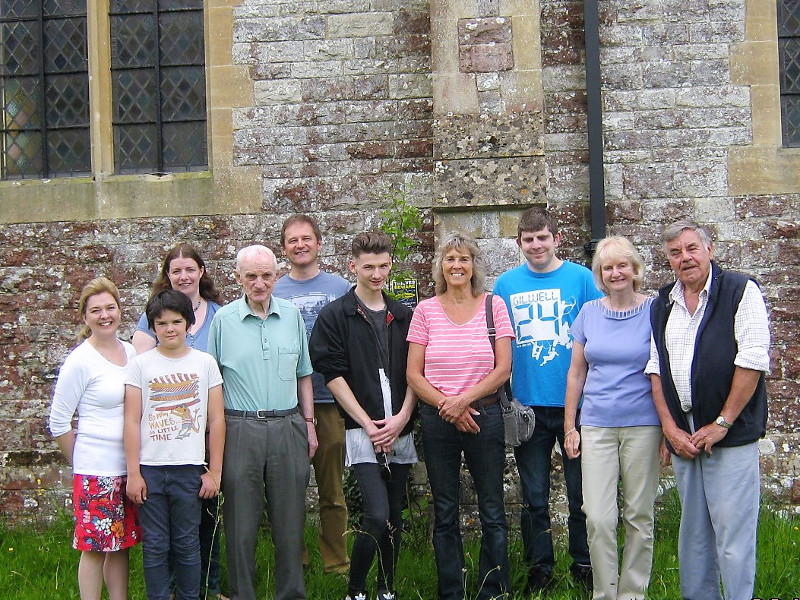
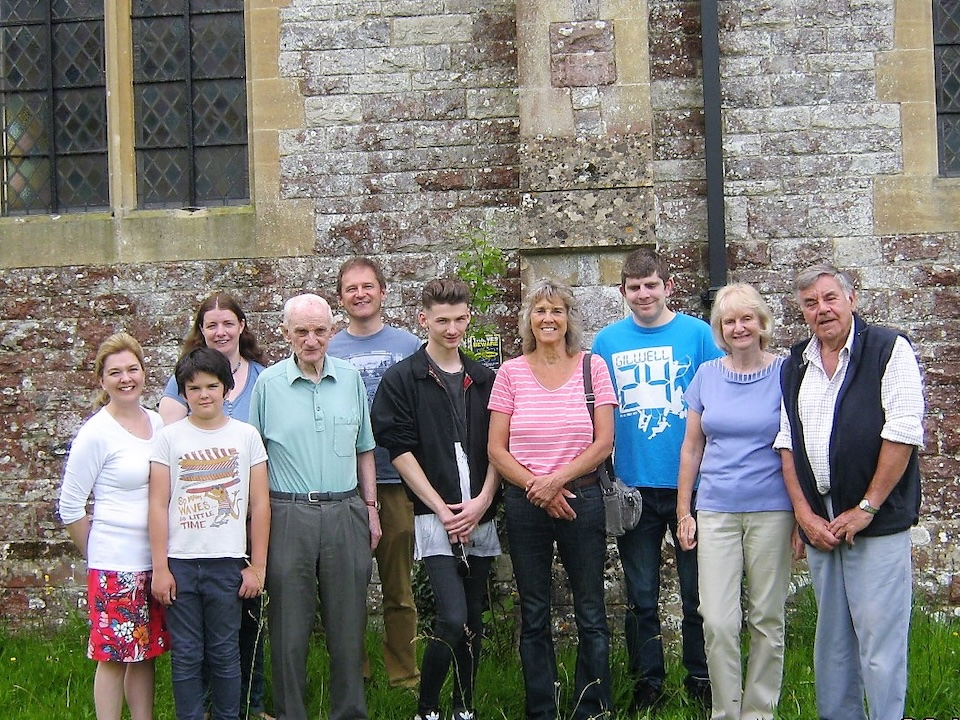
adjusted image sizes for carousel

diff --git a/index.html b/index.html
@@ -94,9 +94,9 @@
           </div>
         </div>
         <div class="carousel-item">
-          <img src="images/2017/mayor1.jpg" class="img-fluid" alt="Mayor's visit Jul 2917" />
+          <img src="images/2017/mayor-visit.jpeg" class="img-fluid" alt="Mayor's visit Jul 2917" />
           <div class="carousel-caption">
-            <p>Mayor and Mayoress visit the tower in July 2017</p>
+            <p>Mayor visit the tower in July 2017</p>
           </div>
         </div>
         <div class="carousel-item">
@@ -106,7 +106,7 @@
           </div>
         </div>
         <div class="carousel-item">
-          <img src="images/20160515_group.jpg" class="img-fluid" alt="Sunday band 2016" />
+          <img src="images/20160515_group.jpeg" class="img-fluid" alt="Sunday band 2016" />
           <div class="carousel-caption">
             <p>Band having just rung for Pentecost Sunday 2016</p>
           </div>
